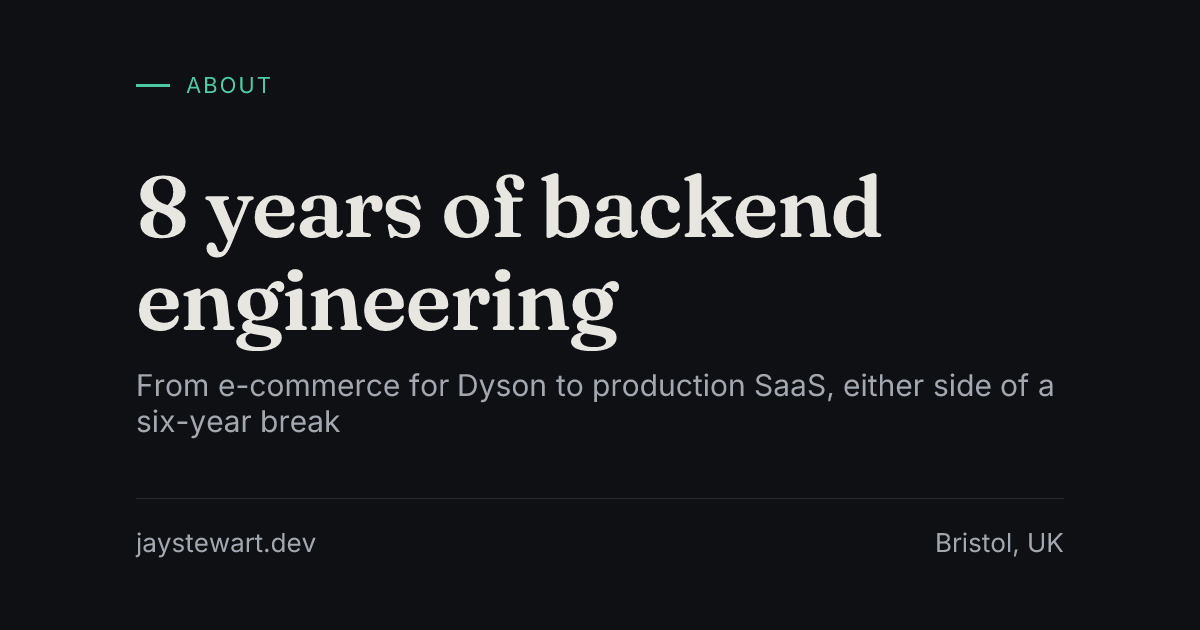
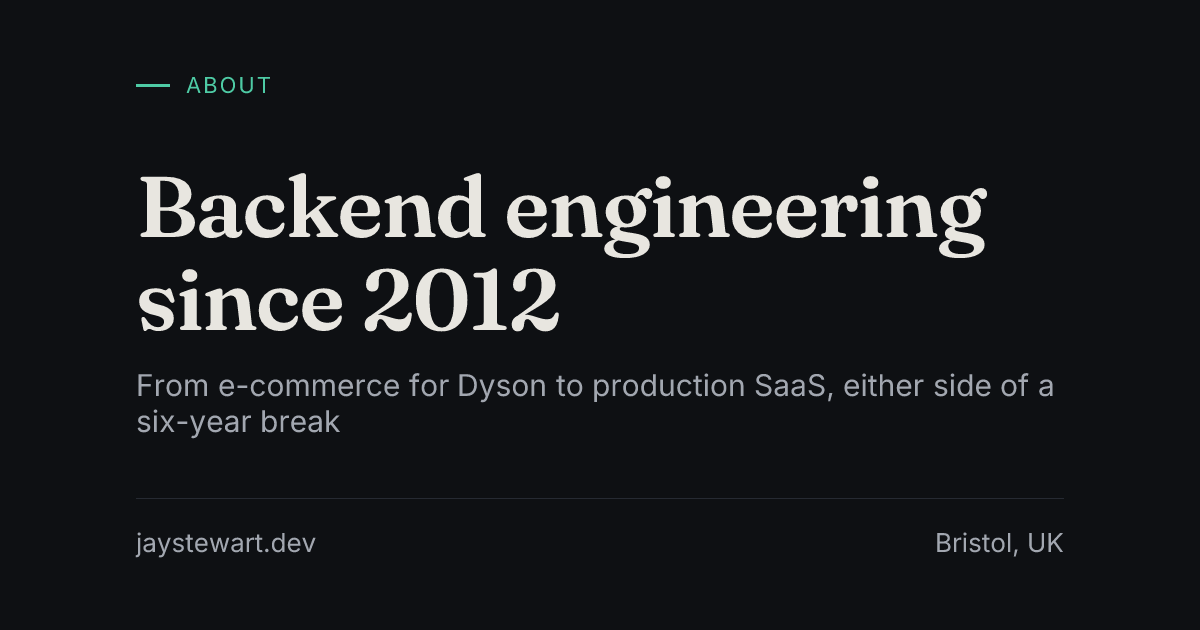
Align the site narrative with the spoken one
Five copy questions that turned out to be one narrative, reviewed against
delivery-co's conversation ladder and linkedin.md, and against the two
production repositories the figures come from.

Experience is a span, not a duration. "Eight years of backend engineering"
becomes "Backend engineering since 2012", derived from the earliest non-break
role by `careerStartYear()` in place of `yearsOfExperience()`. A duration has
to be reconciled against the six-year break every time it is written and goes
stale in between; it was wrong twice here before it was tested, and a more
careful duration was the obvious third attempt rather than the fix. The
LinkedIn profile settled on the same rule first and the two surfaces are
checked against each other before outreach, so the site follows it rather than
keeping a second version of one history.

The gap says why. It was "Then I stopped" on the home page and "I had had
enough, so I stopped" on About, which reads as a voluntary walk-out and is
not what the spoken answer says. Both clients dried up at the start of the
pandemic — the agency contract and the clinic — and the About version keeps
the undefensive half rather than replacing it.

How I got in is on the About page. A friend's first lesson, a part-time
cleaning job in a business centre, six months of teaching myself, then a
junior role at a company in the same building. Three sentences, placed where
the timeline starts, and it earns its place by rhyming with the 2026 restart
[…]

Changed region(s): [[0.0925, 0.2714, 0.8325, 0.573]]

diff --git a/src/data/experience.ts b/src/data/experience.ts
@@ -1,7 +1,7 @@
 /**
  * Employment history.
  *
- * Three editorial decisions are encoded here rather than left to the template:
+ * Four editorial decisions are encoded here rather than left to the template:
  *
  * 1. Thrive ran alongside the G&V role, and both were day-rate contracts.
  *    Both are labelled as such so the overlapping dates read as what they
@@ -18,6 +18,9 @@
  *    the honest version and the stronger one — it is what makes the output
  *    since the restart legible as compression rather than as an ordinary
  *    career spread thin.
+ * 4. Experience is stated as a span — "since 2012" — and never as a number of
+ *    years. See `careerStartYear` below for why, and for the two occasions a
+ *    duration claim was wrong on this site before the rule existed.
  */
 
 export interface Role {
@@ -77,7 +80,7 @@ export const roles: Role[] = [
     location: '—',
     kind: 'break',
     summary:
-      'Six years away from engineering entirely: travelling, living simply, and not working. Deliberate, and not a period I want to write a lesson about. I came back to it in March 2026 after starting to build with coding agents.',
+      'Both clients dried up at the start of the pandemic, and I did not go looking for more. Six years away from engineering entirely: travelling, living simply, and not working. Not a period I want to write a lesson about. I came back to it in March 2026 after starting to build with coding agents.',
   },
   {
     company: 'G&V Venture Brands',
@@ -148,38 +151,33 @@ export const roles: Role[] = [
 ];
 
 /**
- * Years actually spent working, as the union of every non-break role interval.
+ * The year backend engineering started — the earliest non-break role.
  *
- * Deliberately not the span from the first start date. That version counted
- * the six-year career break above as experience and overstated the figure by
- * roughly six years — a claim on the selling surface that nothing checked,
- * which is the exact failure this site sells an audit of. Deriving it from
- * `roles` means the number and the timeline rendered from the same array
- * cannot disagree, and neither can go stale.
+ * A span, deliberately, and never a duration. The years figure this replaced
+ * was wrong twice: hardcoded as "twelve" while a function two files away
+ * computed fourteen, and then correctly interpolating a fourteen that itself
+ * counted the six-year career break as experience. Both shipped, and both
+ * were claims about the author on the page selling an audit of exactly that
+ * kind of claim.
  *
- * Union rather than sum because the roles overlap: Thrive ran alongside G&V,
- * and the transit role alongside the independent one. Summing durations would
- * double-count both.
+ * A more careful duration was the obvious third attempt and is not the fix.
+ * Any duration has to be reconciled against the break every single time it is
+ * written, goes stale between writings, and invites a reader to check the
+ * arithmetic against the timeline directly beneath it. A span cannot be
+ * stale, cannot disagree with the dates, and claims nothing they do not
+ * already show. The LinkedIn profile settled on the same rule first
+ * (delivery-co, linkedin.md — "no duration claim has crept back in"), and the
+ * two surfaces are checked against each other before any outreach, so the
+ * site follows it rather than inventing a second version of one history.
+ *
+ * Derived from `roles` rather than typed, so a corrected start date moves the
+ * copy with it.
  */
-export function yearsOfExperience(now: Date = new Date()): number {
-  const worked = roles
+export function careerStartYear(): number {
+  const starts = roles
     .filter((role) => role.kind !== 'break')
-    .map((role) => ({
-      from: new Date(`${role.start}-01`).getTime(),
-      to: role.end ? new Date(`${role.end}-01`).getTime() : now.getTime(),
-    }))
-    .sort((a, b) => a.from - b.from);
+    .map((role) => role.start)
+    .sort();
 
-  let total = 0;
-  let mergedTo = -Infinity;
-
-  for (const { from, to } of worked) {
-    const start = Math.max(from, mergedTo);
-    if (to > start) {
-      total += to - start;
-      mergedTo = to;
-    }
-  }
-
-  return Math.floor(total / (365.25 * 24 * 60 * 60 * 1000));
+  return Number(starts[0].slice(0, 4));
 }

diff --git a/src/data/experience.test.ts b/src/data/experience.test.ts
@@ -1,33 +1,40 @@
 import { describe, expect, it } from 'vitest';
-import { roles, yearsOfExperience } from './experience.ts';
+import { careerStartYear, roles } from './experience.ts';
 
 /**
- * These pin the one number on this site that is asserted rather than counted.
+ * These pin the one claim on this site that is asserted about the author
+ * rather than counted from a repository.
  *
- * It was wrong twice before it was tested: hardcoded as "twelve" while the
- * function returned fourteen, and then computed as a span from 2012 that
- * silently counted a six-year career break as experience. Both versions
- * shipped, and both were claims about the author on the page selling an audit
- * of exactly that kind of claim.
+ * It was wrong twice as a duration before it was tested: hardcoded as
+ * "twelve" while a function returned fourteen, and then computed as a span
+ * from 2012 that silently counted a six-year career break as experience. Both
+ * versions shipped, and both were claims about the author on the page selling
+ * an audit of exactly that kind of claim.
+ *
+ * The third version is not a better duration — it is a start year, which
+ * cannot go stale and cannot disagree with the timeline rendered from the
+ * same array. What is worth testing therefore changed with it: not the
+ * arithmetic, but that the year is still derived from `roles` and that the
+ * shape those roles are read under still holds.
  */
-describe('yearsOfExperience', () => {
-  const at = (iso: string) => new Date(iso);
+describe('careerStartYear', () => {
+  it('is the earliest non-break role, not a hand-typed year', () => {
+    expect(careerStartYear()).toBe(2012);
 
-  it('excludes the career break', () => {
-    // Jul 2012 → Mar 2020 is 7 years 8 months of work. Adding Mar 2026 → Aug
-    // 2026 gives 8. Counting the break as well would give 14.
-    expect(yearsOfExperience(at('2026-08-07'))).toBe(8);
+    const earliest = roles
+      .filter((role) => role.kind !== 'break')
+      .map((role) => role.start)
+      .sort()[0];
+
+    expect(earliest.startsWith(String(careerStartYear()))).toBe(true);
   });
 
-  it('does not double-count overlapping roles', () => {
-    // Thrive (Aug 2016 – Mar 2020) ran alongside G&V (Jul 2017 – Mar 2020).
-    // Summing durations rather than merging intervals would add ~2.7 years.
-    expect(yearsOfExperience(at('2020-03-01'))).toBe(7);
-  });
-
-  it('counts the current roles up to the date it is asked about', () => {
-    expect(yearsOfExperience(at('2027-03-01'))).toBe(8);
-    expect(yearsOfExperience(at('2027-08-01'))).toBe(9);
+  it('does not move with the date it is asked on', () => {
+    // The property that made this replace a duration. A years figure had to be
+    // right on the day it was written and stayed wrong afterwards; a start
+    // year has no "now" to be read against at all.
+    expect(careerStartYear()).toBe(careerStartYear());
+    expect(careerStartYear.length).toBe(0);
   });
 
   it('has exactly one break, and no role starts inside it', () => {
@@ -41,5 +48,12 @@ describe('yearsOfExperience', () => {
       const startsInsideTheBreak = role.start > gap.start && role.start < gap.end!;
       expect(startsInsideTheBreak, `${role.company} starts during the break`).toBe(false);
     }
+  });
+
+  it('is not itself inside the break', () => {
+    // Guards the failure the old function had: reading a start date that sits
+    // on the wrong side of the gap and calling it where the career began.
+    const [gap] = roles.filter((role) => role.kind === 'break');
+    expect(careerStartYear()).toBeLessThan(Number(gap.start.slice(0, 4)));
   });
 });

diff --git a/src/data/site.ts b/src/data/site.ts
@@ -6,7 +6,7 @@
  * change it and no chance of two pages disagreeing.
  */
 
-import { yearsOfExperience } from './experience.ts';
+import { careerStartYear } from './experience.ts';
 
 export const site = {
   name: 'Jay Stewart',
@@ -28,14 +28,18 @@ export const site = {
    * AI-native engineering, not an offer. (The audit-offer version of this
    * string was retired 2026-08-16 with the strategy that needed it.)
    *
-   * The years figure is interpolated rather than written out, and it has now
-   * been wrong twice: hardcoded as "twelve" while `yearsOfExperience()` two
-   * files away returned fourteen, and then correctly interpolating a fourteen
-   * that itself counted a six-year career break as experience. It derives
-   * from the same `roles` array the About-page timeline renders, with breaks
-   * excluded, so the number cannot contradict the history shown beneath it.
+   * Experience is a span rather than a years figure, interpolated from the
+   * same `roles` array the About-page timeline renders — see
+   * `careerStartYear` for the two occasions a duration was wrong here, and
+   * for why a more careful duration was not the fix.
+   *
+   * "Write most of the code" is deliberately not the whole sentence any more.
+   * It is the counted claim and it stays first, but agents operate the
+   * servers, deploys and release path here too, and a description that stops
+   * at code generation describes something narrower than the practice the
+   * case study documents.
    */
-  description: `Production systems where AI agents write most of the code — run inside verification gates, measured from git history, and written up honestly. ${yearsOfExperience()} years of backend engineering either side of a six-year break, now researching what AI-native delivery actually changes.`,
+  description: `Production systems where AI agents write most of the code — and operate the servers, deploys and release path around it. Run inside verification gates and measured from git history. Backend engineering since ${careerStartYear()}, either side of a six-year break, now researching what AI-native delivery actually changes.`,
 
   /** Short form, used in the footer and structured data. */
   tagline: 'AI-native software engineer · agent-operated production systems, measured',
